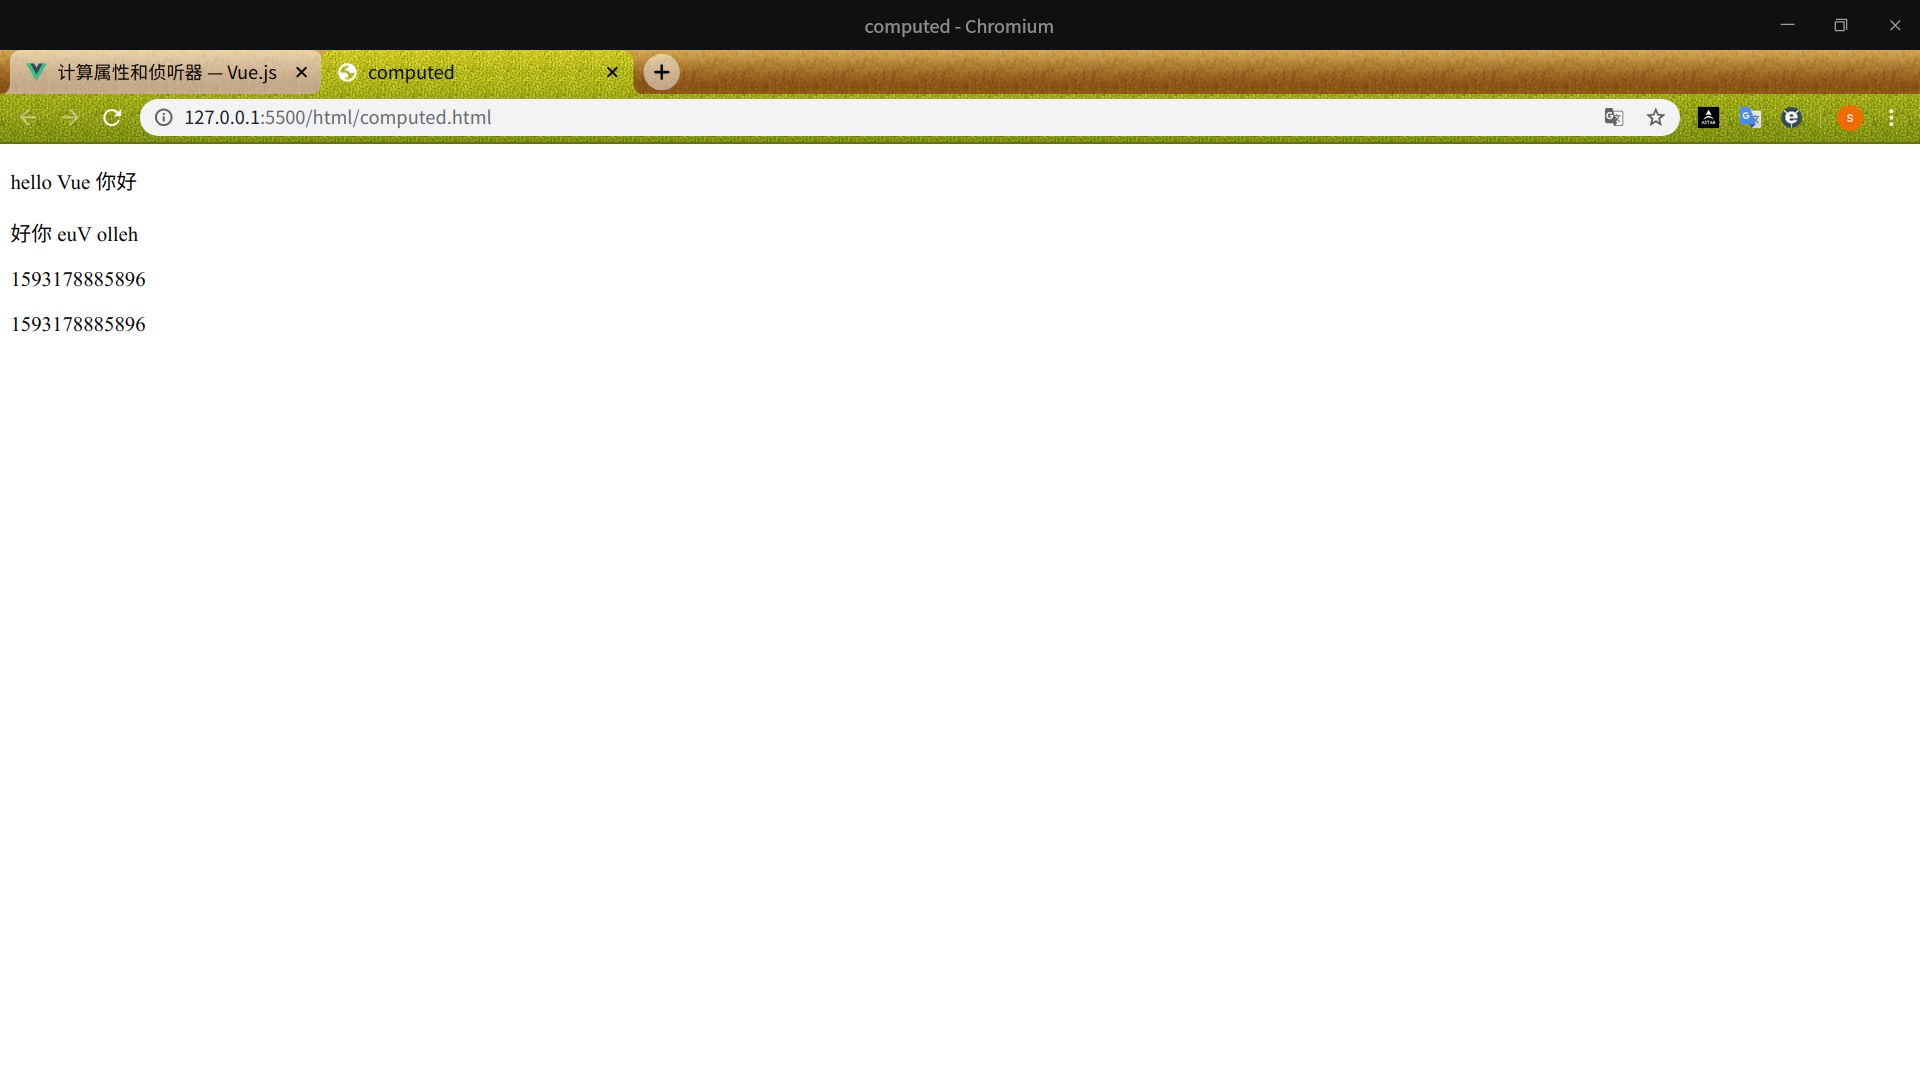
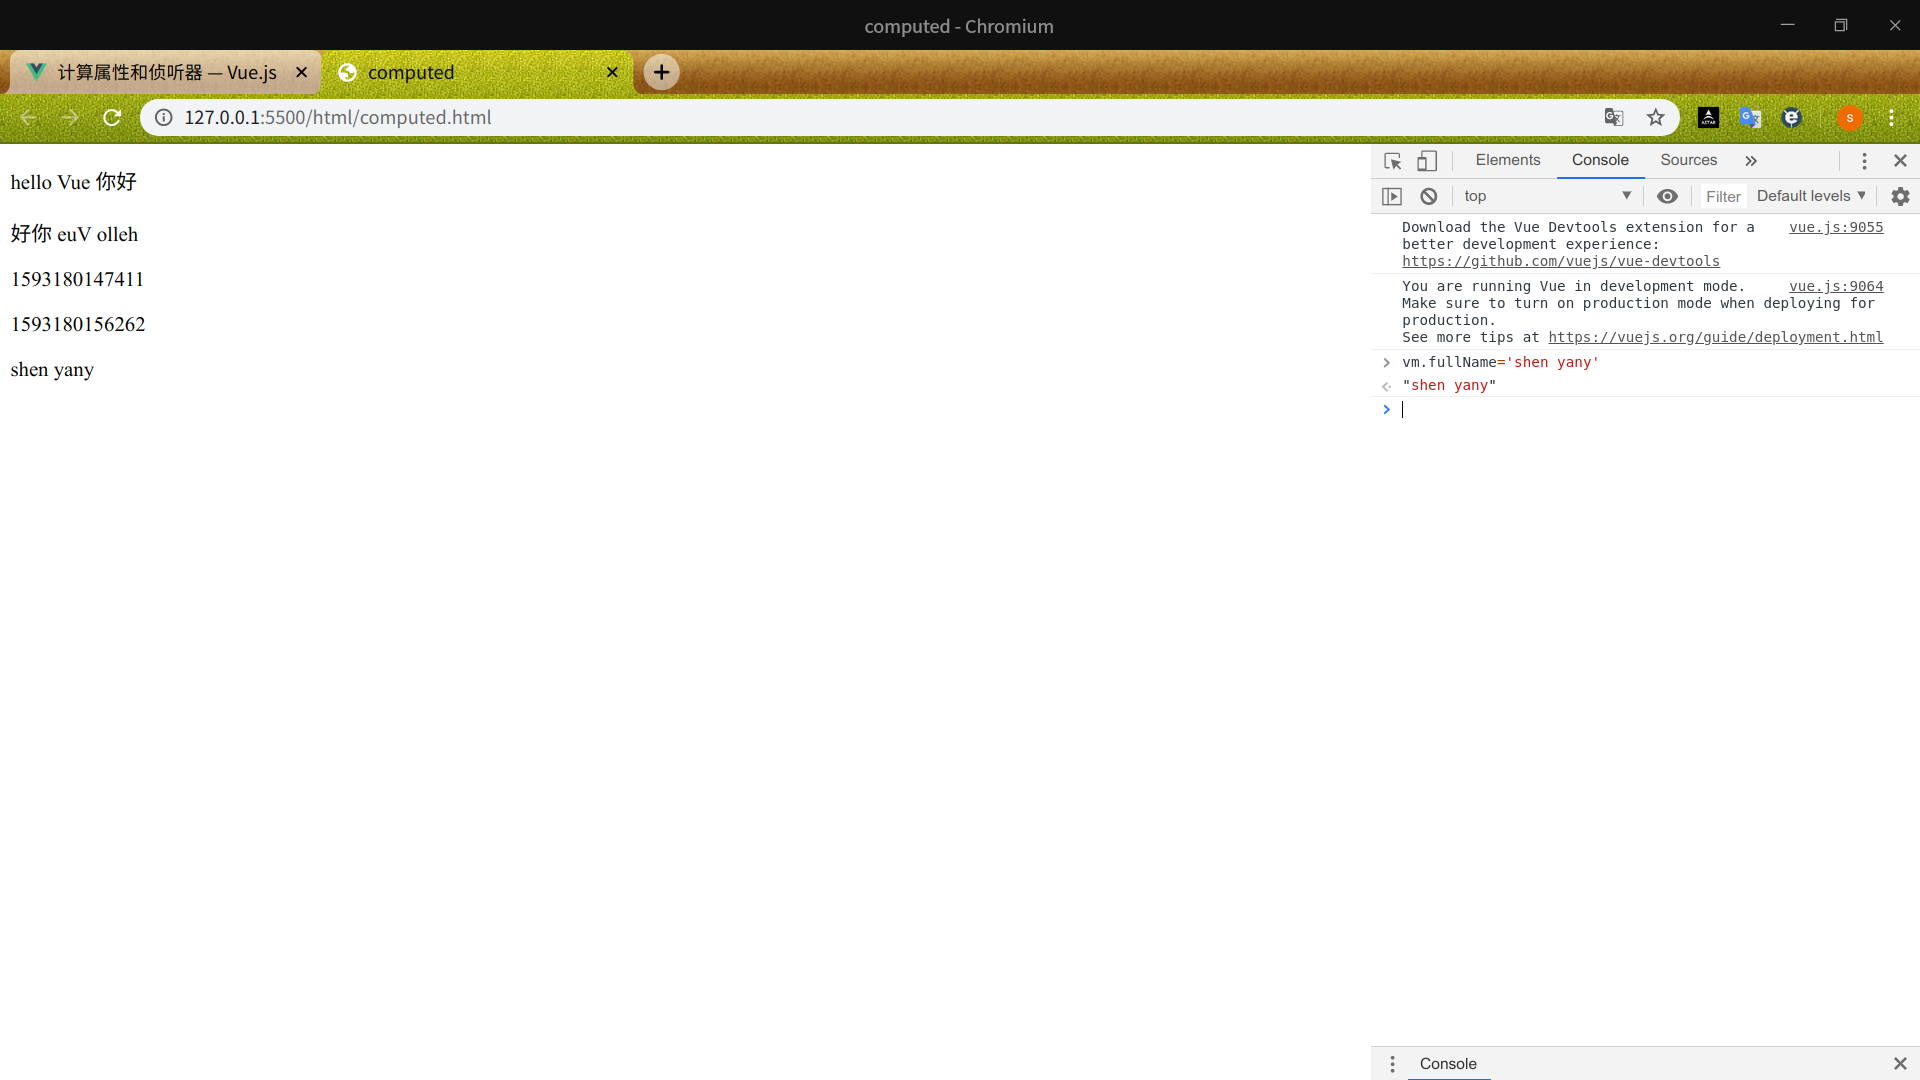
computed

diff --git a/computed.md b/computed.md
@@ -1,6 +1,6 @@
 # computed
 
-翻转内容代码，和之前不同的是函数写在computed里面，表示计算属性，**计算属性是基于它们的响应式依赖进行缓存的**
+翻转内容代码，和之前不同的是函数写在computed里面，表示计算属性，**计算属性是基于它们的响应式依赖进行缓存的**，还可以在computed里面写set函数，来给元素赋值。
 
 ```html
 <!DOCTYPE html>
@@ -17,6 +17,7 @@
         <p>{{reverseMessage}}</p>
         <p>{{nowDate}}</p>
         <p>{{now()}}</p>
+        <p>{{fullName}}</p>
     </div>
     <script src="https://cdn.jsdelivr.net/npm/vue/dist/vue.js"></script>
     <script>
@@ -24,6 +25,8 @@
             el:'#app',
             data:{
                 message:'hello Vue 你好',
+                firstName:'shen',
+                lastName:'yan',
             },
             methods:{
                 now:function(){
@@ -36,6 +39,16 @@
                 },
                 nowDate:function(){
                     return Date.now();
+                },
+                fullName:{
+                    get:function(){
+                        return this.firstName+' '+this.lastName;
+                    },
+                    set:function(newName){
+                        var name = newName.split(' ');
+                        this.firstName=name[0];
+                        this.lastName=name[name.length-1];
+                    }
                 }
             }
         })
